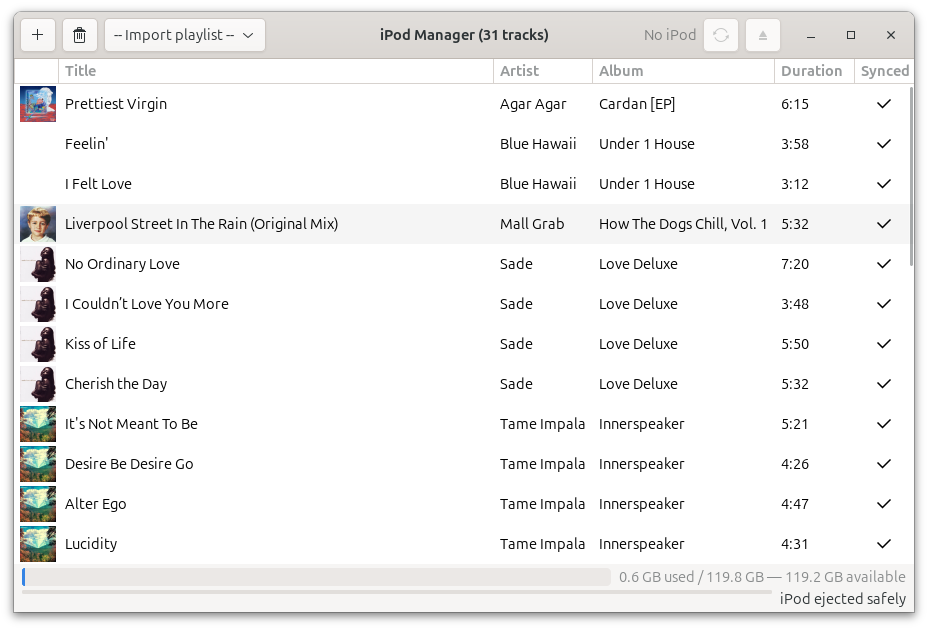
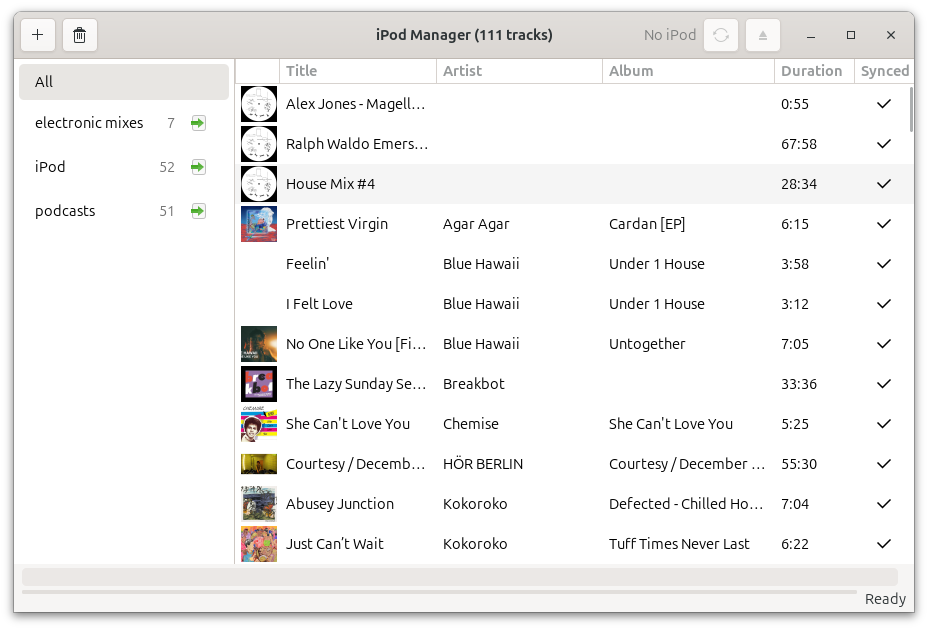
Update screenshot, hide original art column by default

diff --git a/ipod_manager.py b/ipod_manager.py
@@ -35,6 +35,8 @@ class TrackItem(GObject.Object):
         self.ipod_artwork_id = ipod_artwork_id
 
 
+SHOW_ORIGINAL_ART = False
+
 def _format_duration(ms):
     s = ms // 1000
     return f"{s // 60}:{s % 60:02d}"
@@ -296,7 +298,8 @@ class IPodManagerWindow(Gtk.ApplicationWindow):
         self.column_view.add_css_class("data-table")
         scroll.set_child(self.column_view)
 
-        self.column_view.append_column(self._make_art_column())
+        if SHOW_ORIGINAL_ART:
+            self.column_view.append_column(self._make_art_column())
         self.column_view.append_column(self._make_ipod_art_column())
         self.column_view.append_column(
             self._make_label_column("Title", self._bind_title))
@@ -369,7 +372,7 @@ class IPodManagerWindow(Gtk.ApplicationWindow):
         factory = Gtk.SignalListItemFactory()
         factory.connect("setup", self._setup_picture)
         factory.connect("bind", self._bind_ipod_art)
-        col = Gtk.ColumnViewColumn(title="iPod", factory=factory)
+        col = Gtk.ColumnViewColumn(title="", factory=factory)
         col.set_fixed_width(44)
         return col
 
